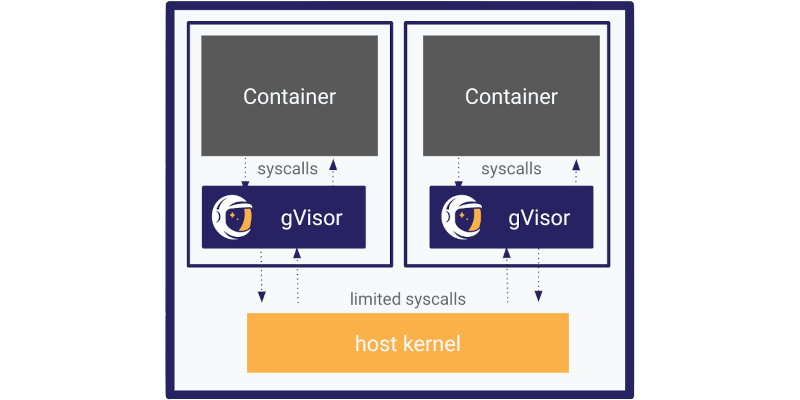
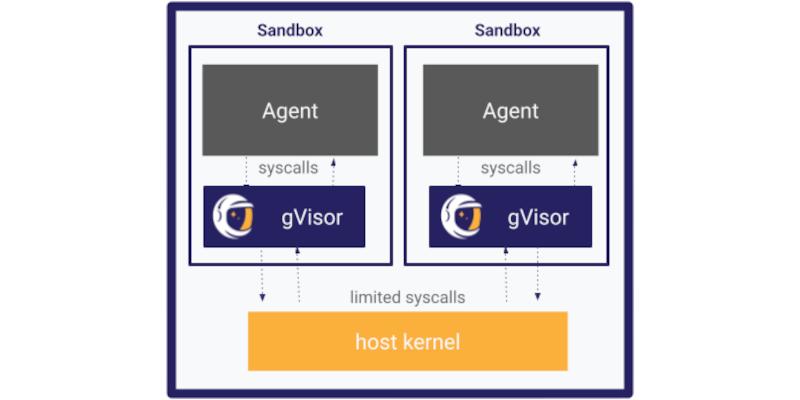
Refresh gvisor website to include sandboxing messaging.
This introduces updated sandbox messaging, drops Falco references, and adds
CNCF sandbox project status to gvisor.dev

PiperOrigin-RevId: 1015938406

diff --git a/website/_includes/footer-links.html b/website/_includes/footer-links.html
@@ -40,7 +40,7 @@
       </ul>
     </div>
     <div class="col-sm-3 col-md-3"></div>
-    <div class="hidden-xs hidden-sm col-md-3">
+    <div class="col-md-3">
       <a href="https://cloud.google.com/run">
         <img
           style="float: right; max-width: 93px; height: auto"
@@ -48,10 +48,27 @@
           alt="Powered by gVisor"
         />
       </a>
+      <p class="small text-muted text-right" style="clear: both; display: block;">gVisor was orginally created by Google.</p>
     </div>
   </div>
-  <div class="row">
-    <div class="col-lg-12">
+  <div class="row row-valign-middle">
+    <div class="col-md-12 col-lg-12">
+      <hr class="border-primary">
+    </div>
+    <!-- CNCF -->
+    <div class="col-sm-4 col-md-3 text-left">
+      <a href="https://cncf.io" target="_blank" rel="noopener noreferrer">
+        <img src="/assets/logos/cncf_logo.svg" alt="Cloud Native Computing Foundation Logo" class="img-responsive cncf-logo" style="opacity:0.7;"/>
+      </a>
+    </div>
+    <div class="col-sm-8 col-md-9" style="margin-top:20px">
+      <p class="project-statement text-muted">
+      We are a <a href="https://cncf.io" target="_blank" rel="noopener noreferrer">Cloud Native Computing Foundation</a> sandbox project.
+      </p>
+    </div>
+    <!-- END CNCF -->
+    <div class="col-md-12 col-lg-12">
+      <hr class="border-primary">
       <p>&copy; {{ 'now' | date: "%Y" }} The gVisor Authors</p>
     </div>
   </div>

diff --git a/website/_includes/header.html b/website/_includes/header.html
@@ -5,7 +5,7 @@
     {% if page.title and page.title != "" %}
     <title>{{ page.title }} - gVisor</title>
     {% else %}
-    <title>The Container Security Platform - gVisor</title>
+    <title>The Sandbox Kernel for Agents - gVisor</title>
     {% endif %}
     <link rel="canonical" href="{{ page.url | replace:'index.html','' | prepend: site_root }}">
 

diff --git a/website/index.md b/website/index.md
@@ -3,9 +3,10 @@
     <div class="row">
       <div class="col-md-3"></div>
       <div class="col-md-6">
-        <h1 style="color:white;">The Container Security Platform</h1>
-        <p>Improve your container security, deliver security-imperative apps,
-          increase security productivity, and enforce compliance.</p>
+        <h1 style="color:white;">The Sandbox Kernel for Agents</h1>
+        <p>Memory-safe, lightweight Linux-compatible userspace kernel
+        to safely sandbox agents at high density without virtual
+        machine overhead.</p>
         <p style="margin-top: 20px;">
           <a class="btn" href="/docs/user_guide/install/">
             Get started&nbsp;
@@ -28,22 +29,24 @@
   <div class="container">
     <div class="row">
       <div class="col-md-6 pull-right gallery-popup">
-          <img
-            src="/assets/images/gvisor-high-level-arch.png"
-            alt="gVisor high-level architecture"
-            title="gVisor high-level architecture"
-            class="img-responsive"
-          />
+        <img
+          src="/assets/images/gvisor-high-level-arch.png"
+          alt="gVisor high-level architecture"
+          title="gVisor high-level architecture"
+          class="img-responsive"
+        />
       </div>
       <div class="col-md-6 pull-left">
         <div class="divide-xl"></div>
-        <h2><span><b>gVisor</b></span> is the <span><b>missing security layer</b></span> for
-          running containers efficiently and securely.
-        </h2>
-        <p class="info-text">gVisor is an open-source Linux-compatible sandbox
-          that runs anywhere existing container tooling does. It enables
-          cloud-native container security and portability. gVisor leverages
-          years of experience isolating production workloads at Google.
+        <h2>Efficiently Sandbox Agentic & AI Workloads</h2>
+        <p class="info-text"><strong>Build bursty, ephemeral sandbox
+          execution</strong> of LLM-generated code, data science scripts, and
+          distributed RL environments with <strong>high density</strong>.
+        </p>
+        <p class="info-text">
+          <strong>Pack orders of magnitude more sandboxes per node</strong> by
+          reclaiming idle memory dynamically back to the host. Eliminate
+          hypervisor boot phases and memory fragmentation.
         </p>
         <div class="divide-xl"></div>
     </div>
@@ -52,7 +55,7 @@
   <div class="container" style="margin-top:20px">
     <div class="row">
       <div class="col-md-4 pull-left">
-        <img
+       <img
           src="/assets/images/gvisor-run-untrusted.png"
           alt="gVisor can run untrusted code"
           title="gVisor can run untrusted code"
@@ -61,11 +64,14 @@
       </div>
       <div class="col-md-8 pull-right">
         <div class="divide-xl"></div>
-        <h2>Run Untrusted Code</h2>
-        <p class="info-text">Isolate Linux hosts from containers so you can
-          <strong>safely run user-uploaded, LLM-generated, or third-party
-          code</strong>. Add defense-in-depth measures to your stack, bringing
-          additional security to your infrastructure.
+        <h2>Scale and Secure Autonomous AI Agents</h2>
+        <p class="info-text">Deliver <strong>container-native pod density,
+          instant cold starts, and dynamic host memory allocation without
+          requiring nested virtualization</strong> inside virtual machines.
+        </p>
+        <p class="info-text">Standard containers lack isolation and
+          <strong>microVMs still carry high idle memory and slow initialization
+          overhead when compared to native containers</strong>.
         </p>
         <div class="divide-xl"></div>
       </div>
@@ -74,7 +80,7 @@
   <div class="container" style="margin-top:20px">
     <div class="row">
       <div class="col-md-4 pull-right">
-        <img
+       <img
           src="/assets/images/gvisor-secure-by-default.png"
           alt="gVisor secure by default"
           title="gVisor secure by default"
@@ -83,12 +89,15 @@
       </div>
       <div class="col-md-8 pull-left">
         <div class="divide-xl"></div>
-        <h2>Protect Workloads & Infrastructure</h2>
-        <p class="info-text">Fortify hosts and containers against
-          <strong>escapes and privilege escalation CVEs</strong>, enabling
-          strong isolation for security-critical workloads as well as
-          multi-tenant safety.
-        </p>
+        <h2>Harden Shared and Multi-Tenant Compute Clusters</h2>
+        <p class="info-text"><strong>Harden clusters like Kubernetes</strong>
+          against container breakouts, shared-kernel vulnerabilities, and
+          unpatched host kernel CVEs.
+       </p>
+        <p class="info-text">Sandbox workloads by inserting an
+          <strong>independent user-space kernel</strong>, removing direct
+          untrusted access to the host Linux kernel.
+       </p>
         <div class="divide-xl"></div>
       </div>
     </div> <!-- end row -->
@@ -96,18 +105,21 @@
   <div class="container" style="margin-top:20px">
     <div class="row">
       <div class="col-md-4 pull-left">
-        <img src="/assets/images/gvisor-reduce-risk.png"
-          alt="gVisor reduces risk"
-          title="gVisor reduces risk"
+        <img src="/assets/images/gvisor-multi-cloud.png"
+          alt="gVisor supports multi-cloud"
+          title="gVisor supports multi-cloud"
           class="img-responsive"
         />
       </div>
       <div class="col-md-8 pull-right">
         <div class="divide-xl"></div>
-        <h2>Reduce Risk</h2>
-        <p class="info-text">Deliver runtime visibility that integrates
-          with popular <strong>threat detection tools</strong> to quickly
-          identify threats, generate alerts, and enforce policies.
+        <h2>Support Agents Across Hybrid and Multi-Cloud Footprints</h2>
+        <p class="info-text"><strong>Run agents and AI workloads</strong>
+          without fragmenting Kubernetes tooling or pod specs.
+        </p>
+        <p class="info-text">gVisor <strong>implements the OCI Runtime Spec
+          (runsc)</strong>, functioning as a <strong>standard Kubernetes
+          RuntimeClass</strong> without requiring custom VM images or hypervisor network bridges.
         </p>
         <div class="divide-xl"></div>
       </div>
@@ -122,7 +134,7 @@
     <div class="container-fluid" style="margin-top:50px;background-color:#171433">
       <div class="row">
         <h1 align="center" style="color:white;font-size:38px">
-          The way containers should run
+          Why gVisor?
         </h1>
         <div class="container" style="margin-top:20px">
           <div class="col-md-1"></div>
@@ -130,13 +142,11 @@
             <div class="panel panel-solution">
               <div class="panel-body">
                 <div align="center"><span><i class="fas fa-shield-alt fa-4x"></i></span></div>
-                <h2 align="center"><span>Improve your container security</span></h2>
-                <p class="info-text">Give your K8s, SaaS, or Serverless
-                  infrastructure additional layers of protection when running
-                  end-user code, untrusted code, LLM-generated code, or
-                  third-party code. Enable <strong>strong isolation</strong> for
-                  sharing resources and delivering <strong>multi-tenant
-                  environments</strong>.
+                <h2 align="center"><span>Host Kernel Exploit Mitigation</span></h2>
+                <p class="info-text">gVisor implements core Linux kernel
+                  abstractions (process management, memory layout, network stack,
+                  VFS) so that application syscalls are serviced in user space,
+                  isolating the host kernel from guest code.
                 </p>
               </div>
             </div>
@@ -144,14 +154,12 @@
           <div class="col-md-5">
             <div class="panel panel-solution">
               <div class="panel-body">
-                <div align="center"><span><b><i class="fas fa-cogs fa-4x"></i></b></span></div>
-                <h2 align="center"><span>Deliver security-imperative apps</span></h2>
-                <p class="info-text">gVisor adds defense-in-depth measures to
-                  your containers, allowing you to <strong>safeguard
-                  security-sensitive workloads</strong> like financial
-                  transactions, healthcare services, personal identifiable
-                  information, and other <strong>security-imperative
-                  applications</strong>.
+                <div align="center"><span><b><i class="fas fa-memory fa-4x"></i></b></span></div>
+                <h2 align="center"><span>Dynamic Memory Reclamation</span></h2>
+                <p class="info-text">gVisor requests memory pages from the host
+                  OS on demand and releases them when workloads idle, utilizing
+                  standard Linux page management rather than guest OS ballooning
+                  drivers.
                 </p>
               </div>
             </div>
@@ -166,14 +174,13 @@
             <div class="panel panel-solution">
               <div class="panel-body">
                 <div align="center"><span><b><i class="fas fa-rocket fa-4x"></i></b></span></div>
-                <h2 align="center"><span>Increase security productivity</span></h2>
-                <p class="info-text">Isolate your K8s, SaaS, Serverless,
-                  DevSecOps lifecycle or CI/CD pipeline.
-                  gVisor helps you achieve a secure-by-default posture. Spend
-                  <strong>less time staying on top of security
-                  disclosures</strong>, and <strong>more time building what
-                  matters</strong>.
-                </p>
+                <h2 align="center"><span>Instant Sandbox Execution</span></h2>
+                <p class="info-text">Bypass virtual machine initialization
+                  sequences (virtual BIOS, vCPU configuration, PCI bus
+                  enumeration, guest kernel boot). Initiat isolated sandboxes
+                  with process-level startup latency, ideal for high-throughput
+                  tool calling and short-lived execution tasks.
+               </p>
               </div>
             </div>
           </div>
@@ -181,13 +188,12 @@
             <div class="panel panel-solution">
               <div class="panel-body">
                 <div align="center"><span><b><i class="fas fa-check fa-4x"></i></b></span></div>
-                <h2 align="center"><span>Enforce compliance</span></h2>
-                <p class="info-text">gVisor safeguards against many
-                  cloud-native attacks by <strong>reducing the attack
-                  surface</strong> exposed to your containers. Shield services
-                  like APIs, configs, infrastructure as code, DevOps tooling,
-                  and supply chains, lowering the risk present in a typical
-                  cloud-native stack.
+                <h2 align="center"><span>Validated Sandbox Integrity</span></h2>
+                <p class="info-text">gVisor filesystem access is governed by minimal
+                  host permissions. Host operations use DirectFS with
+                  pre-validated file descriptors or route through the isolated
+                  Gofer proxy process, enclosed by strict host-level seccomp
+                  filters.
                 </p>
               </div>
             </div>
@@ -226,14 +232,13 @@
                     Defense in Depth
                   </a>
                 </h2>
-                <p class="info-text" style="margin-bottom:0px">
-                  <strong>gVisor implements the Linux API</strong>: by
-                  intercepting all sandboxed application system calls to the
-                  kernel, it protects the host from the application. In
-                  addition, <strong>gVisor also sandboxes itself from the
-                  host</strong> using Linux's isolation capabilities.
-                  Through these layers of defense, gVisor achieves true
-                  defense-in-depth while still providing
+                <p class="info-text" style="margin-bottom:0px"><strong>gVisor
+                  implements the Linux API</strong>: by intercepting all
+                  sandboxed application system calls to the kernel, it protects
+                  the host from the application. In addition, <strong>gVisor
+                  also sandboxes itself from the host</strong> using Linux's
+                  isolation capabilities. Through these layers of defense,
+                  gVisor achieves true defense-in-depth while still providing
                   <strong>VM-like performance</strong> and
                   <strong>container-like resource efficiency</strong>.
                 </p>
@@ -352,9 +357,9 @@
                 </h2>
                 <p class="info-text" style="margin-bottom:0px;">Observe runtime
                   behavior of your applications by streaming application actions
-                  (trace points) to an external <strong>threat detection
-                  engine</strong> like
-                  <a href="https://falco.org" style="color:#272261">Falco</a>
+                  (trace points) to an external threat detection
+                  engine like
+                  <a href="https://wiz.io" style="color:#272261">Wiz</a>
                   and generate alerts.
                 </p>
               </div>
@@ -365,11 +370,11 @@
               <div class="panel-body">
                 <h2 style="color:#272261">
                   <a href="docs/user_guide/gpu/" class="feature-link">
-                    GPU &amp; CUDA Support
+                    TPU &amp; GPU (CUDA) Support
                   </a>
                 </h2>
                 <p class="info-text" style="margin-bottom:0px;">gVisor
-                  applications can <strong>use CUDA on Nvidia GPUs</strong>,
+                  applications can <strong>use TPUs and CUDA on Nvidia GPUs</strong>,
                   bringing isolation to AI/ML workloads.
                 </p>
               </div>
